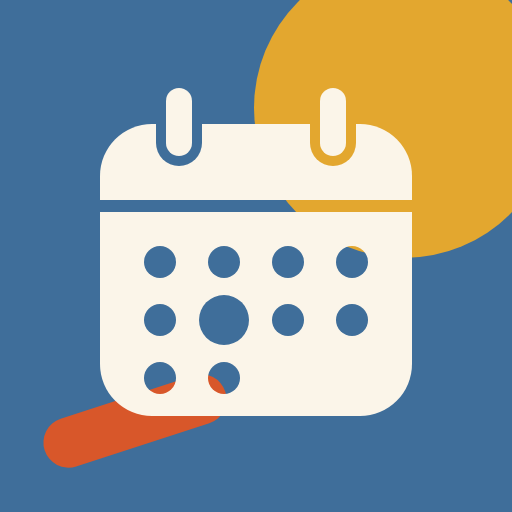
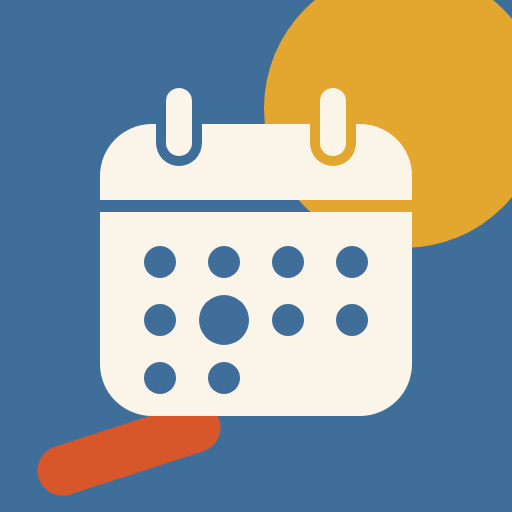
WIP: Weather and Calendar Vintage (agents still building; not verified)
Claude-Session: https://claude.ai/code/session_015ccLsdCqKy8meXzAGBfhkq

diff --git a/weathervintage/index.html b/weathervintage/index.html
@@ -457,7 +457,7 @@
   --mc-mustard:#E3A72F; --mc-teal:#1F6F6B; --mc-orange:#D8572A; --mc-olive:#7E8C34; --mc-on-mustard:#2B2522;
   --bg:#F4ECDD; --text:#2B2522; --muted:#5B4A3F; --faint:#75635A;
   --accent:#1F6F6B; --accent-text:#1F6F6B; --on-accent:#FFF8EC; --icon:#1F6F6B;
-  --cta:#C9502A; --cta-ink:#FFF8EC;
+  --cta:#C24C28; --cta-ink:#FFF8EC;
   --surface:#FBF5E9; --border:rgba(43,37,34,.14);
   --hair:rgba(43,37,34,.14); --hair-2:rgba(43,37,34,.08); --fill:rgba(43,37,34,.06);
   --lift-strong:rgba(43,37,34,.22); --scrim:rgba(43,37,34,.35); --grab:rgba(43,37,34,.28);
@@ -477,7 +477,7 @@
   --mc-card:#322A25; --mc-card-2:#3D332C; --mc-edge:rgba(244,236,221,.14); --mc-ink:#F4ECDD; --mc-teal:#4FB3AB; --mc-olive:#A3B04A;
   --bg:#241E1A; --text:#F4ECDD; --muted:#CFC1AC; --faint:#A99C86;
   --accent:#5CBDB5; --accent-text:#5CBDB5; --on-accent:#1E1916; --icon:#E3A72F;
-  --cta:#D8572A; --cta-ink:#FFF8EC;
+  --cta:#C24C28; --cta-ink:#FFF8EC;
   --surface:#322A25; --border:rgba(244,236,221,.14);
   --hair:rgba(244,236,221,.14); --hair-2:rgba(244,236,221,.09); --fill:rgba(244,236,221,.07);
   --lift-strong:rgba(0,0,0,.4); --scrim:rgba(12,8,5,.55); --grab:rgba(244,236,221,.28);
@@ -494,7 +494,7 @@
   --mc-card:#322A25; --mc-card-2:#3D332C; --mc-edge:rgba(244,236,221,.14); --mc-ink:#F4ECDD; --mc-teal:#4FB3AB; --mc-olive:#A3B04A;
   --bg:#241E1A; --text:#F4ECDD; --muted:#CFC1AC; --faint:#A99C86;
   --accent:#5CBDB5; --accent-text:#5CBDB5; --on-accent:#1E1916; --icon:#E3A72F;
-  --cta:#D8572A; --cta-ink:#FFF8EC;
+  --cta:#C24C28; --cta-ink:#FFF8EC;
   --surface:#322A25; --border:rgba(244,236,221,.14);
   --hair:rgba(244,236,221,.14); --hair-2:rgba(244,236,221,.09); --fill:rgba(244,236,221,.07);
   --lift-strong:rgba(0,0,0,.4); --scrim:rgba(12,8,5,.55); --grab:rgba(244,236,221,.28);

diff --git a/calendarvintage/README.md b/calendarvintage/README.md
@@ -1,0 +1,97 @@
+# Calendar Vintage
+
+[Calendar](../calendar/README.md) in a mid-century modern look, as its own app.
+It does everything Calendar does - the iCloud Family calendar in Day, Week,
+Month, Year and List, new and edited events with repeats, alerts and time zones,
+drag to move, search, and the layers from Notes, Travel, Mail, Fitness, Drinks,
+the weather and US holidays - and talks to the same Family calendar. The
+features, how it reaches iCloud, the one-off set-up and what could not be
+checked are described in `calendar/README.md`; this page covers what differs.
+
+## The look
+
+Mid-century modern in the Retro colours, from the aOS Design Styles canvas, as
+in Mail Vintage, Home Vintage and Orders Vintage:
+
+- a cream ground and cards (walnut in dark mode), flat and round-cornered, in
+  place of glass; the month grid, the day and week grids, the year's months,
+  the lists and the sheets are all solid cards;
+- mustard, teal, burnt orange and olive: the view bar and the week strip have a
+  mustard thumb, today is a burnt-orange disc, the new-event button and the
+  tick are solid burnt orange, the secondary buttons are outlined teal;
+- three atomic shapes behind the title that scroll away with the page, and
+  three little bars under it; Futura, which iOS has built in, so no font is
+  downloaded.
+- **the calendars keep their meaning and take Retro colours**: the Family
+  calendar is mustard, US Holidays olive, Notes plum, Travel teal, Mail denim,
+  Fitness burnt orange, Drinks rose (each a lighter shade in dark mode). The
+  Family calendar is always mustard here: Calendar draws it in the colour iCloud
+  has for it, which is not part of this palette. Notes items are plum whatever
+  colour their list has in Notes, with the list's name under the title.
+
+It is the last block of the style sheet in `index.html`; the glass styles above
+it are still there underneath. Calendar Vintage is drawn this way for everyone:
+the style picker in the design canvas is not built.
+
+## What is separate from Calendar, and what is shared
+
+It is a second copy of Calendar's page and script, not a setting, so the two can
+change independently and Calendar is never touched.
+
+- **Own storage.** Every key is `allison-calendarv-v1-…` (Calendar's is
+  `allison-calendar-v1-…`) and the offline cache is `calendarvintage-v1`, so
+  each app has its own settings (layers, week start, clock), last-seen events,
+  weather and view. A setting changed in one is not changed in the other.
+- **The same iCloud Family calendar, through Calendar's own server route.**
+  There is no `functions/calendarvintage`: every call goes to `../calendar/api/`
+  (`functions/calendar/api`, locked to the signed-in family like Calendar's), so
+  the Apple ID, the app-specific password, the `ICLOUD_*` secrets and the News
+  workflow's set-up are Calendar's, **done once, nothing new to add**. That
+  route is stateless (it holds only a day's cache of where the calendar lives),
+  so two apps using it can't disagree. Opening both is safe: reads change
+  nothing; an edit sends the event's own etag, so if the other app (or the
+  iPhone's Calendar) changed the event first, iCloud refuses the write, the
+  app reloads and says so, as it does today; a new event gets its own new file
+  name. Events are written the same way by both apps (`ical.js` is the same
+  file, checked by `scripts/same-reader-test.mjs`), so an event made or edited
+  in one comes out of the other unchanged, and there are no copies. (If you
+  use "Add to the Family calendar" on a layer item in both apps, you get two
+  events, as you would tapping it twice.)
+- **The same layers.** Notes, Travel, Mail and Fitness keep a copy of what
+  Calendar shows in your family account (`GET /aOS/api/layer`); both calendars
+  read it. Each reads its own storage first where the browser shares the apps'
+  (a computer): Travel Vintage's and Fitness Vintage's (`allison-travelv-v1`,
+  `allison-fitnessv-v1`), then Travel's and Fitness's. Mail Remind Me days come
+  from Mail Vintage's or Mail's Gmail sign-in (`mailv.token`, `mail.token`), the
+  weather's place from Weather Vintage's or Weather's (`wxv.…`, `wx.…`), and
+  Drinks from your account (`../drinks/api/`), as in Calendar.
+  - The account keeps one copy of each layer, written by whichever of Notes,
+    Travel, Mail or Fitness (or their Vintage designs) last sent it. Travel
+    Vintage does not send one (see `travelvintage/README.md`), so on an iPhone
+    Travel's layer comes from Travel only.
+- **Opens its layer items in the Vintage apps**: Travel Vintage, Mail Vintage,
+  Fitness Vintage and Drinks Vintage (`../travelvintage/`, `../mailvintage/?thread=…`,
+  `../fitnessvintage/?date=…`, `../drinksvintage/?date=…`); Notes has no Vintage.
+  Both are separate Home Screen apps; whether iOS opens that address inside the
+  installed app or in Safari is up to iOS, which treats a link outside an app's
+  own folder as a web page (not checked on a phone).
+- **Nothing else to set up.** No sign-in address, no token: it needs the same
+  family sign-in as Calendar (Face ID, once) and, for the events, the iCloud
+  connection Calendar already has.
+
+## Tests
+
+`node calendarvintage/scripts/app-test.mjs` is Calendar's browser test, run on
+this app (iCloud and the weather stubbed), plus checks that it is drawn in the
+Retro look in light and dark: Futura, flat cream (walnut) cards, a mustard
+thumb, an orange new-event button and today, seven different Retro colours for
+the calendars and layers, the shapes behind the title; that it keeps its own
+storage and cache and calls only `/calendar/api/` and `/aOS/api/`; and that it
+reads Travel's and Fitness's storage under their standard keys too (CI:
+`apps-check.yml`). `node calendarvintage/scripts/layers-test.mjs` is Calendar's
+layers test (Notes, Travel, Fitness and Mail through the family account), run
+on this app. `node calendarvintage/scripts/same-reader-test.mjs` checks the
+iCalendar reader and writer is Calendar's. The server route's own tests
+(`access-test`, `api-test`, `ical-test`) are Calendar's and are not copied.
+`node calendarvintage/scripts/make-icons.mjs` redraws the icons from `icon.svg`
+(a cream calendar page on denim blue, with a mustard sun and a burnt-orange pill).

diff --git a/calendar/README.md b/calendar/README.md
@@ -4,6 +4,11 @@ The iCloud **Family** calendar as a home-screen web app, in the same frosted
 glass as Mail, Notes, News and Travel, with the everyday parts of iOS Calendar
 and Google Calendar, and the other AllisonOS apps' dates alongside.
 
+**Calendar Vintage** is the same app in a mid-century modern look, as its own app
+with its own settings ([`calendarvintage/`](../calendarvintage/README.md)). It uses
+this app's iCloud connection (`functions/calendar/api`), so there is nothing more to
+set up.
+
 - **Views**: Day, Week, Month, Year and List, in the bar along the bottom.
   Swipe left or right to move through days, weeks or months; **Today** brings
   you back; tap the big title for the year. In Month, tap a day to see it
